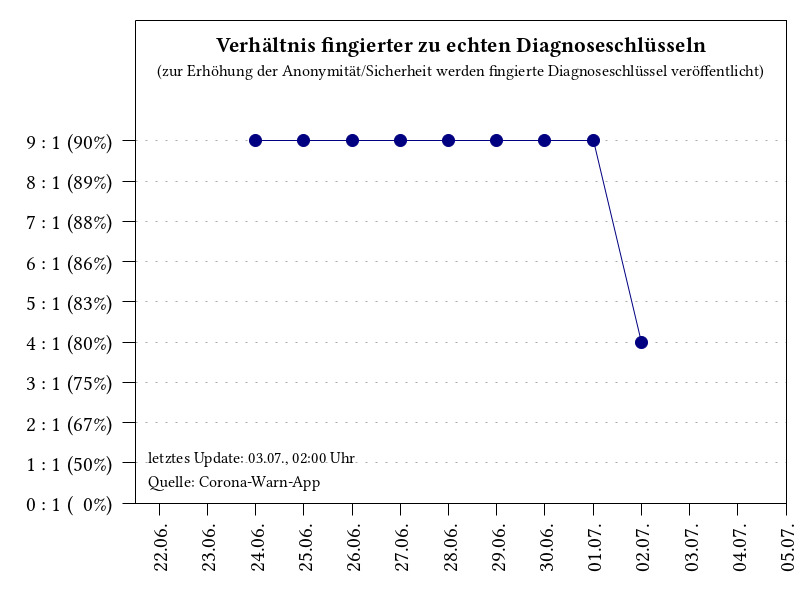
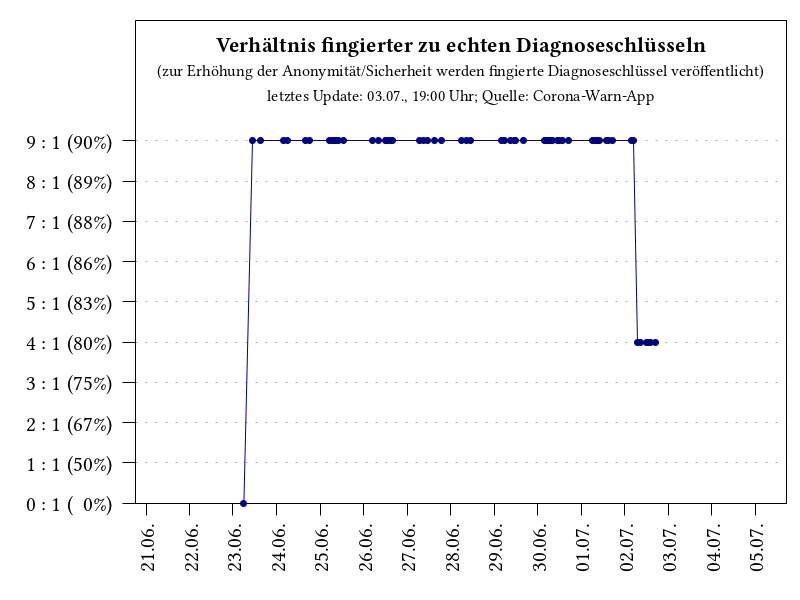
switched padding multiplier analysis to hourly packages (closes #7)

diff --git a/scripts/CWA_TRL_multiplier.py b/scripts/CWA_TRL_multiplier.py
@@ -8,13 +8,14 @@ if __name__ == "__main__":
     ###########################################################################
     ##### Paths and filenames
     ###########################################################################
-    CWA_DATA_DIR  = os.path.dirname(os.path.realpath(__file__)) + "/../data_CWA/"
+    CWA_DATA_DIR  = os.path.dirname(os.path.realpath(__file__)) + "/../data_CWA_hourly/"
+    MAIN_DATA_DIR = os.path.dirname(os.path.realpath(__file__)) + "/../data_CWA/"
     
-    MULT_JSON_FILE = CWA_DATA_DIR + "cwa_padding_multiplier.json"
-    MULT_CSV_FILE  = CWA_DATA_DIR + "cwa_padding_multiplier.csv"
+    MULT_JSON_FILE = MAIN_DATA_DIR + "cwa_padding_multiplier.json"
+    MULT_CSV_FILE  = MAIN_DATA_DIR + "cwa_padding_multiplier.csv"
                 
     # generate list of analyzed files
-    pattern_date = re.compile(r"([0-9]{4})-([0-9]{2})-([0-9]{2}).dat") 
+    pattern_date = re.compile(r"hourly_packages_([0-9]{4})-([0-9]{2})-([0-9]{2}).json") 
     pattern_multiplier = re.compile(r"Padding Multiplier detected: ([0-9]{1,})")
     
     # results
@@ -23,22 +24,39 @@ if __name__ == "__main__":
     # read processed key files
     for r, d, f in os.walk(CWA_DATA_DIR):
         for file in f:
-            if file.endswith(".dat"):
+            if file.endswith(".json"):
                 pd = pattern_date.findall(file)                
                 if ( len(pd) == 1 ) and ( len(pd[0]) == 3):
                     
-                    # read contents
+                    # read JSON contents
                     with open(CWA_DATA_DIR + file, 'r') as df:
                         raw_data = df.read()
                     
-                    # find regular expression
-                    pm = pattern_multiplier.findall(raw_data)
-                    if ( len(pm) != 1 ):
+                    hours = json.loads(raw_data)
+                    if ( len(hours) < 1 ):
                         continue
                     
-                    # add multiplier
-                    timestamp = int(datetime.datetime(year=int(pd[0][0]), month=int(pd[0][1]), day=int(pd[0][2]), hour=2).strftime("%s"))
-                    data_array.append( [ timestamp, int(pm[0])] )
+                    date_str = pd[0][0] + "-" + pd[0][1] + "-" + pd[0][2]
+                    filepath = CWA_DATA_DIR + date_str + "/"
+                    if not os.path.isdir(filepath):
+                        continue
+                    
+                    for hour in hours:
+                        filename = filepath + date_str + "_" + str(hour) + ".dat"
+                        if not os.path.isfile(filename):
+                            continue
+                        
+                        with open(filename, 'r') as df:
+                            package_data = df.read()
+
+                        # find regular expression
+                        pm = pattern_multiplier.findall(package_data)
+                        if ( len(pm) != 1 ):
+                            continue
+                        
+                        # add multiplier
+                        timestamp = int(datetime.datetime(year=int(pd[0][0]), month=int(pd[0][1]), day=int(pd[0][2]), hour=hour).strftime("%s"))
+                        data_array.append( [ timestamp, int(pm[0])] )                        
                     
     # sort data by timestamp
     sorted_data = sorted(data_array, key=lambda t: t[0])
